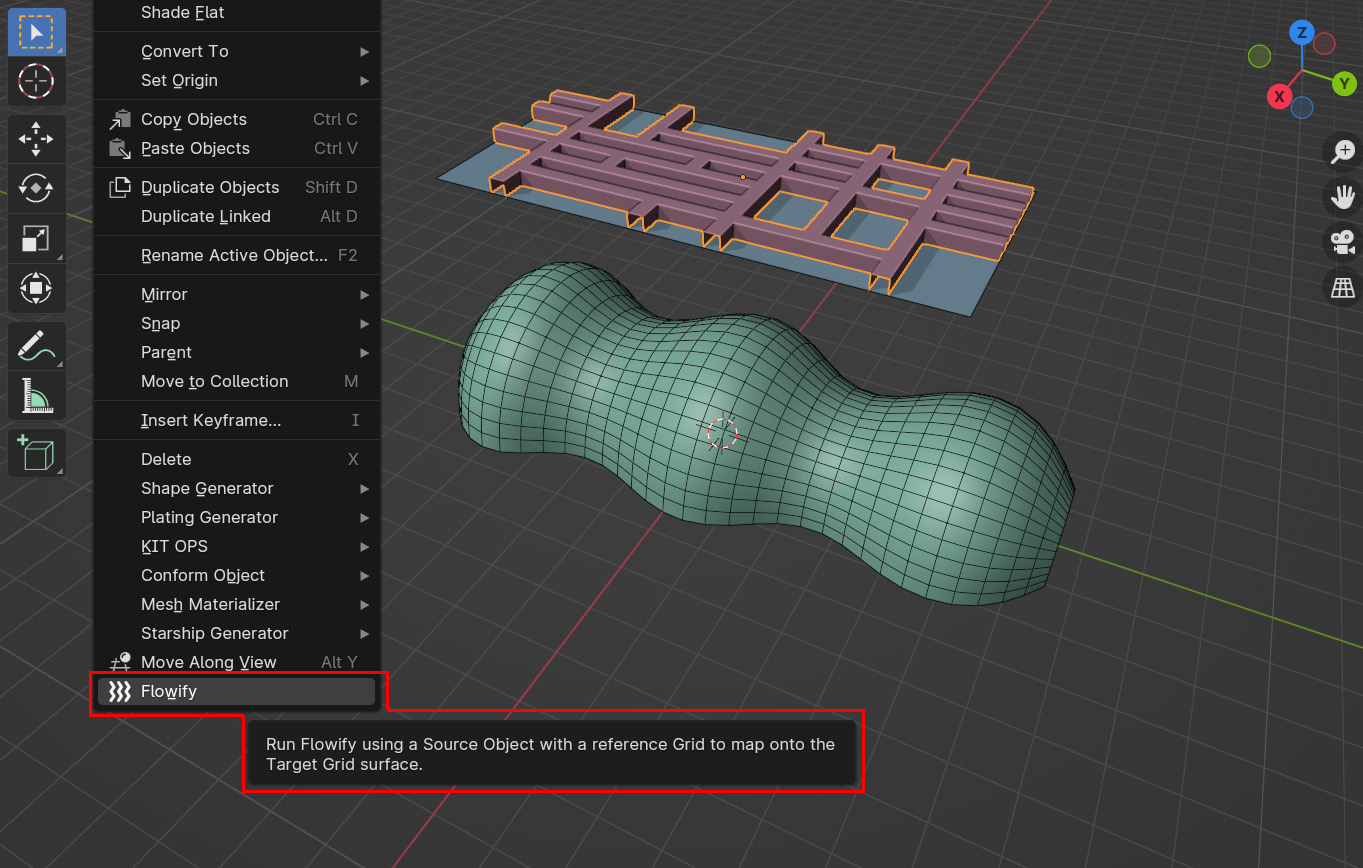
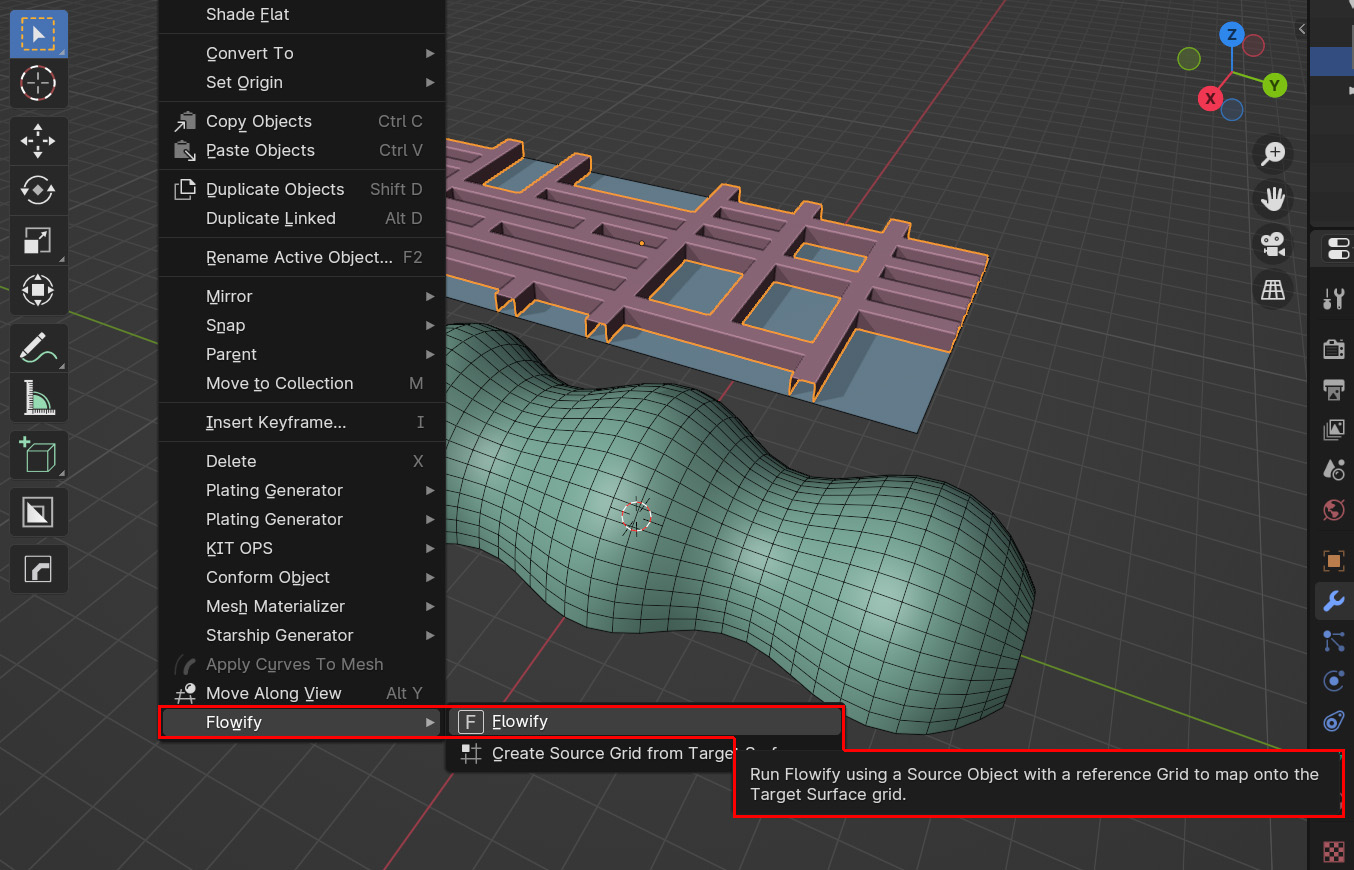
Added updates for cylindrical object

diff --git a/docs/use.rst b/docs/use.rst
@@ -35,14 +35,27 @@ Once :ref:`installed<installation>`, for Flowify to work in Blender you will nee
 
 #.  .. _target_surface:
 
-    An irregularly shaped **Target Surface** consisting of **evenly spaced** 4 sided faces with 4 distinct corners.
+    A **Target Surface** that can either be:
+    
+    * An grid shape of  **evenly spaced** 4 sided faces with 4 distinct corners, **or** 
+    * A cylindrical shape of **evenly spaced** 4 sided faces with open ends.
 
-    .. note::
-        .. image:: images/target_grid.jpg
+    Each surface can have a different number of faces in their rows and columns.
+
+    .. note:: 
+        **Valid Target Surfaces**
+
+        .. figure:: images/target_grid.jpg
+
+            A valid Target Surface shaped like a grid.
+
+        .. figure:: images/target_cylinder.jpg
+
+            A valid Target Surface shaped like a cylinder.
         
-        The vertices of the grid must be evenly spaced for Flowify to work well.  Blender's built in |Loop Tools| add-on's *Space* operation should help with this.
+        The vertices of the surface must be evenly spaced for Flowify to work well.  Blender's built in |Loop Tools| add-on's *Space* operation should help with this.
         
-        The target surface should also consist of 4 sided faces with 4 distinct corners.  Its face direction (or |normals|) should also match the Source Grid. 
+        The target surface should also consist of 4 sided faces, with 4 distinct corners for grids and 2 open ends for cylinders.  Their face directions (or |normals|) should also match the Source Grid. 
 
     .. warning::
         If modifiers such as the Array or Solidify modifier have been added to the Target Surface, the add-on may not work properly.  Try applying modifiers like the Array/Solidify modifier first.  Subdivision Surface modifiers should work, and if you have any issues do :ref:`contact us<contact>`.
@@ -60,17 +73,26 @@ Step by Step
 
 .. figure:: images/flowify_stepbystep.gif
 
-    The Flowify workflow in Blender
+    The Flowify workflow in Blender for grid surfaces
+
+.. figure:: images/flowify_cyl_stepbystep.gif
+
+    The Flowify workflow in Blender for cylindrical surfaces
 
 The workflow is as follows:
 
-#. In object mode, **select the Source Object(s)** and right-click in the viewport.  Select 'Flowify' from the menu that appears. 
+#. In object mode, **select the Source Object(s)** and right-click in the viewport. Go to the 'Flowify' menu option.  Select 'Flowify' from the sub-menu that appears. 
 
     .. image:: images/right_click_menu.jpg
 
-    .. note:: 
-        You can select multiple source objects at once.
+    .. tip::
+        You can also select the Flowify options by clicking the 'F' icon at the top of the viewport.
+        
+        .. image:: images/flowify_top_menu.jpg
+        
 
+    .. tip:: 
+        You can select multiple source objects at once.
 
 #. By default, the viewport will change to :ref:`face orientation<face_orientation>` mode so you can make sure the face directions (or |normals|) of the **Source Grid** and **Target Surface** are pointing in the same way (ie the same blue colour).  
 
@@ -87,12 +109,31 @@ The workflow is as follows:
 
     .. image:: images/source_grid_corner_circle.jpg
 
+
+    .. note::
+        For cylindrical target surfaces, *always* select the "Top Left" corner of the source grid:
+
+        .. image:: images/cyl_top_left_selection.jpg
+
 #. Hover the mouse over the **Target Surface** and click the matching corner.  A line should appear between the Source Grid and the Target Surface, indicating how the mapping will be applied.
 
-    .. image:: images/target_grid_corner_circle.jpg
+    .. note::
+        **Matching Corners**
 
-    .. note:: 
         It is important that the corner of the **Source Grid** is aligned to the same representative corner on the **Target Surface** to match the correct orientation.
+        
+        For **Grids**, the matching corner is the equivilent corner that was selected on the Source Grid.
+
+        .. figure:: images/grid_corner_selection.jpg
+
+            Grid Corner Selection
+
+        For **Cylinders**, select a point along the 'top' end of the surface.  This will be the start point of the deformation and match the 'top left' corner selected on the Source Grid.
+
+        .. figure:: images/cyl_top_selection.jpg
+
+            Cylinder Top Rim Selection
+
 
 #. The **Source Object** should be mapped onto the Target Surface in a new object called *Source Object* + *Flowify*. The **Source Grid** is subdivided into faces that you can use as a reference for the position of the **Source Object** on the **Target Surface**.
     
@@ -100,6 +141,7 @@ The workflow is as follows:
 
    .. image:: images/flowify_complete.jpg
 
+   .. image:: images/flowify_complete_cyl.jpg
 
 .. note::
     Check out the :ref:`Tips and Troubleshooting<troubleshooting>` section and don't hesitate to :ref:`contact us<Contact>` if you are having issues.

diff --git a/docs/tools.rst b/docs/tools.rst
@@ -1,0 +1,30 @@
+.. _tools:
+
+#####################################
+Tools
+#####################################
+
+======================================================
+Create Source Grid from Target Surface
+======================================================
+
+.. image:: images/create_grid_from_surface.gif
+
+You can choose to automatically create a flat :ref:`Source Grid<source_grid>` from any selected **Target Surface**.  Select the Target Surface, and from the Flowify menu select **Create Grid from Target Surface**.  This will create a grid that matches the dimensions of the edges running along and across the arget Surface.
+
+Controls
+------------------------
+
+.. image:: images/create_source_grid_controls.jpg
+
+* **Width/Height**: This controls which calculation to use for the dimensions of the Source Grid:
+
+    * **Max:** The Maximum length of the sets of edges across or down the grid.
+    * **Min:** The Minimum length of the sets of edges across or down the grid.
+    * **Average:** The Average length of the sets of edges across or down the grid.
+
+* **Offset Translation**: By default the grid wil be created above the Target Surface.  These parameters control the offset from that point.
+
+    * **Location:** Offset location of grid.
+    * **Rotation:** Offset rotation of grid.
+    * **Scale:** Offset scale of grid.

diff --git a/docs/index.rst b/docs/index.rst
@@ -51,6 +51,7 @@ Features:
 * Change the Target Surface and the result will automatically update as well.
 * Use on regular objects, instanced objects and text (:ref:`As long as they have deformable topology<troubleshooting>`).
 * Materials will be copied over to as well.
+* Automatically create the flat reference Source Grid from an existing Target Surface.
 * See the :ref:`Step By Step<howto>` guide for how to use.
 * Configure a Flowify :ref:`modifier<modifier_settings>` with additional options afterwards.
 * Use optionally in Blender's |Quad View| mode:
@@ -109,6 +110,7 @@ If you are undecided about which add-on suits your needs, don't hesitate to :ref
    installation
    use
    settings
+   tools
    preferences
    troubleshooting
    how_does_it_work

diff --git a/docs/installation.rst b/docs/installation.rst
@@ -19,9 +19,8 @@ Installation
 .. image:: images/install_screen.jpg
   :alt: Flowify Installed
 
-###################
 Upgrading
-###################
+--------------------------------------
 
 #. In Blender, Go to *Edit* -> *Preferences*.
 #. Find the *Flowify* add-on entry, expand the entry and click the *Remove* button. This wil remove the old version of the add-on.

diff --git a/docs/settings.rst b/docs/settings.rst
@@ -7,7 +7,7 @@ Settings
 .. _modifier_settings:
 
 ======================================================
-Modifer settings
+Modifier settings
 ======================================================
 
 If the resulting Flowify object is selected, there is a Flowify *Geometry Nodes* Modifier that has additional settings for the add-on:
